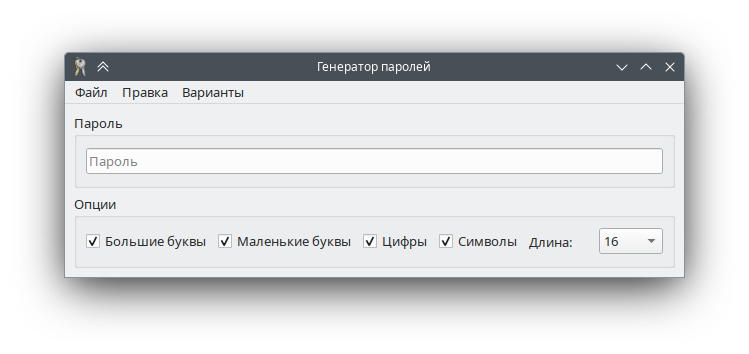
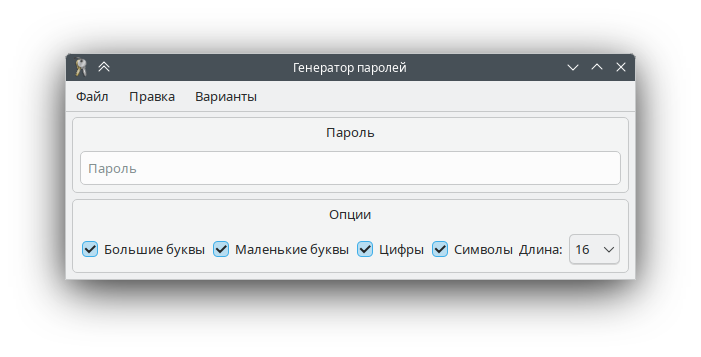
Password Generator 25.11.1
* Restored English translation to have a working example for Qt i18n

Changed region(s): [[0.0599, 0.1243, 0.9287, 0.8079], [0.4494, 0.5904, 0.5392, 0.6215]]

diff --git a/apps/password_generator/i18n/password_generator_ru_RU.ts b/apps/password_generator/i18n/password_generator_ru_RU.ts
@@ -1,0 +1,87 @@
+<?xml version="1.0" encoding="utf-8"?>
+<!DOCTYPE TS>
+<TS version="2.1" language="ru_RU">
+<context>
+    <name>MainWindow</name>
+    <message>
+        <location filename="../src/mainwindow.ui" line="14"/>
+        <source>Password Generator</source>
+        <translation>Генератор паролей</translation>
+    </message>
+    <message>
+        <location filename="../src/mainwindow.ui" line="21"/>
+        <source>Password</source>
+        <translation>Пароль</translation>
+    </message>
+    <message>
+        <location filename="../src/mainwindow.ui" line="43"/>
+        <source>Options</source>
+        <translation>Опции</translation>
+    </message>
+    <message>
+        <location filename="../src/mainwindow.ui" line="49"/>
+        <source>Upper Case</source>
+        <translation>Большие буквы</translation>
+    </message>
+    <message>
+        <location filename="../src/mainwindow.ui" line="56"/>
+        <source>Lower Case</source>
+        <translation>Маленькие буквы</translation>
+    </message>
+    <message>
+        <location filename="../src/mainwindow.ui" line="63"/>
+        <source>Digits</source>
+        <translation>Цифры</translation>
+    </message>
+    <message>
+        <location filename="../src/mainwindow.ui" line="70"/>
+        <source>Symbols</source>
+        <translation>Символы</translation>
+    </message>
+    <message>
+        <location filename="../src/mainwindow.ui" line="77"/>
+        <source>Length:</source>
+        <translation>Длина:</translation>
+    </message>
+    <message>
+        <location filename="../src/mainwindow.ui" line="100"/>
+        <source>File</source>
+        <translation>Файл</translation>
+    </message>
+    <message>
+        <location filename="../src/mainwindow.ui" line="108"/>
+        <source>Variants</source>
+        <translation>Варианты</translation>
+    </message>
+    <message>
+        <location filename="../src/mainwindow.ui" line="118"/>
+        <source>Edit</source>
+        <translation>Правка</translation>
+    </message>
+    <message>
+        <location filename="../src/mainwindow.ui" line="128"/>
+        <source>Generate</source>
+        <translation>Генерировать</translation>
+    </message>
+    <message>
+        <location filename="../src/mainwindow.ui" line="136"/>
+        <source>Exit</source>
+        <translation>Выход</translation>
+    </message>
+    <message>
+        <location filename="../src/mainwindow.ui" line="144"/>
+        <source>Medium</source>
+        <translation>Средний</translation>
+    </message>
+    <message>
+        <location filename="../src/mainwindow.ui" line="152"/>
+        <source>Long</source>
+        <translation>Длинный</translation>
+    </message>
+    <message>
+        <location filename="../src/mainwindow.ui" line="176"/>
+        <source>Copy</source>
+        <translation>Копировать</translation>
+    </message>
+</context>
+</TS>

diff --git a/apps/password_generator/src/password_generator.cpp b/apps/password_generator/src/password_generator.cpp
@@ -34,8 +34,6 @@ class MainWindow : public QMainWindow {
     explicit MainWindow(QWidget *parent = nullptr) : QMainWindow(parent), ui(std::make_unique<Ui::MainWindow>()) {
         ui->setupUi(this);
 
-        this->setWindowTitle("Генератор паролей");
-
         // Setup length combobox
         for (auto length : PASSWORD_LENGTH_OPTIONS) {
             ui->lengthComboBox->addItem(QString::number(length), QVariant(length));
@@ -103,6 +101,16 @@ class MainWindow : public QMainWindow {
 
 int PasswordGeneratorApplication::main(int argc, char *argv[]) {
     QApplication a(argc, argv);
+
+    QTranslator translator;
+    const auto uiLanguages = QLocale::system().uiLanguages();
+    for (const auto &locale : uiLanguages) {
+        const auto baseName = "password_generator_" + QLocale(locale).name();
+        if (translator.load(":/i18n/" + baseName)) {
+            a.installTranslator(&translator);
+            break;
+        }
+    }
 
     std::vector<std::string> arguments;
     for (auto str : QCoreApplication::arguments()) {

diff --git a/docs/modules.md b/docs/modules.md
@@ -1,13 +1,13 @@
-# Notes on C++20 Modules
+# Заметки по опыту использования модулей C++20
 
-Modules work in general with GCC 15 and CMake 4.2.0. There are however certain limitations and issues.
+Модули, в целом, работают с GCC 15 и CMake 4.2.0 (начиная с 3.28). Однако, существует значительное количество проблем и ограничений.
 
 ## Qt
 
-### Qt in Exports
+### Qt в экспорте
 
-Qt headers are impossible to include within module interface units due to GCC compilation errors.
-Module as simple as the following example will not compile:
+Заголовочные файлы Qt невозможно включать в блок интерфейса<sup>1</sup> модулей из-за ошибок компиляции GCC.
+Даже простейший модуль, как в примере ниже, не скомпилируется:
 
 ```c++
 module;
@@ -21,7 +21,7 @@ export int length(const QString &str) {
 }
 ```
 
-There will be lots of compiler errors like
+Будет получено большое количество ошибок компиляции вида
 
 ```
 /usr/include/qt6/QtCore/qlatin1stringview.h:156:25: error: ‘short int QLatin1String::toShort(bool*, int) const’ exposes TU-local entity ‘T QtPrivate::toIntegral(ByteArrayView, bool*, int) [with T = short int; ByteArrayView = QByteArrayView; <template-parameter-1-3> = void]’
@@ -34,24 +34,35 @@ In file included from /usr/include/qt6/QtCore/qbytearray.h:16:
       |               ^~~~~~~~~~~~~~
 ```
 
-Which means modules cannot export anything that refers to Qt definitions.
+Это означает, что, по сути, модули не могут экспортировать ничего что бы ссылалось на определения из Qt.
 
-The only solution I found so far is to gather all Qt related classes in a single implementation partition and
-import all other modules from there. This is ugly and does not scale well.
+Единственное решение, которое мне пока удалось найти, заключается в перенесении всех классов, использующих Qt, в один
+cpp-файл. Это позволяет избежать включения заголовков Qt в блоки интерфейса. Решение, конечно, уродливое и совершенно
+не масштабируемое.
 
 ### Qt MOC
 
-Qt MOC cannot be built because custom Qt toolchain knows nothing about modules, dependency graph, etc.
-The only solution I found was to ```set(CMAKE_AUTOMOC OFF)``` for the project and remove all Q_OBJECT macros from project
-classes. This works if these classes don't use Qt syntax extensions like signals and slots. Translation
-macros will not work either.
+Qt MOC невозможно построить, поскольку соответствующие утилиты Qt ничего не знают о графе зависимостей между модулями
+и пытаются построить свои файлы до сборки модулей.
+
+Чтобы решить эту проблему, можно отключить опцию ```CMAKE_AUTOMOC``` и убрать макрос ```Q_OBJECT``` из соответствующих
+классов проекта. Это можно делать только если эти классы не исользуют расширешия синтаксиса ```slots``` и ```signals```.
+Видимо, макросы трансляции тоже не будут работать.
 
 ## Header Imports
 
-Header imports are not supported by CMake currently at all.
+Header imports в настоящее время не поддерживаются CMake даже в экспериментальном формате.
 
 ## Import std
 
-It works with significant limitations. There must be no STL headers included via ```#include``` either directly or
-indirectly. Which means ```import std``` is practically impossible in module interface units. It can be used in module
-implementation units for rather simple modules.
+Эта часть стандарта C++23 работает при включении экспериментальной функциональности CMake, но в реальности использовать ее не получается
+из-за конфликтов между импортом и заголовками STL, транзитивно включаемыми из других заголовков.
+
+Таким образом, практически невозможно использовать ```import std``` в блоках интерфейса. Можно использовать в блоках реализации<sup>2</sup> для
+очень простых модулей, которые не зависят ни от чего кроме STL.
+
+---
+
+1 - module interface unit
+
+2 - module implementation unit

diff --git a/README.md b/README.md
@@ -3,24 +3,24 @@
 [![License](https://www.panteleyev.org/badges/license-bsd-2.svg)](LICENSE)
 ![C++](https://www.panteleyev.org/badges/cpp-23.svg)
 
-Monorepo for C++ exercises.
+Монорепозиторий для C++.
 
-## Applications
+## Приложения
 
 + [Password Generator](./apps/password_generator)
 + [Password Manager](./apps/password_manager)
 + [Sapper](./apps/sapper)
 
-## Libraries
+## Библиотеки
 
 + [common](./libs/common)
 + [cryptography](./libs/cryptography)
 + [pwdgen](./libs/pwdgen)
 + [qthelpers](./libs/qthelpers)
 
-## Build Environment
+## Сборка
 
-This project is built using the following environment:
+Проект собирается на следующем окружении:
 * Linux
 * GCC 15.2.0
 * CMake 4.1.2
@@ -34,25 +34,25 @@ cmake . --preset <debug | release>
 cmake --build --preset <debug | release> [--target <target>]
 ```
 
-Build targets:
+Цели для сборки приложений:
 * password_generator
 * password_manager
 * sapper
 
-## Tests
+## Тесты
 
 ```sh
 cmake --build --preset <debug | release>
 ctest --preset <debug | release>
 ```
 
-or
+или
 
 
 ```sh
 cmake --workflow --preset <debug | release>
 ```
 
-## More
+## Разное
 
-[Some notes on C++20 modules experience](docs/modules.md)
+[Заметки по опыту использования модулей C++20](docs/modules.md)

diff --git a/apps/password_generator/README.md b/apps/password_generator/README.md
@@ -10,10 +10,10 @@
 
 |Вариант|Большие буквы|Маленькие буквы|Цифры|Символы|Длина|
 |---|---|---|---|---|---|
-|Длинный|X|X|X|X|32|
-|Средний|X|X|X|X|16|
-|UNIX|X|X|X|X|8|
-|PIN| | |X| |4|
+|Длинный|✓|✓|✓|✓|32|
+|Средний|✓|✓|✓|✓|16|
+|UNIX|✓|✓|✓|✓|8|
+|PIN| | |✓| |4|
 
 ## Неоднозначные буквы
 
